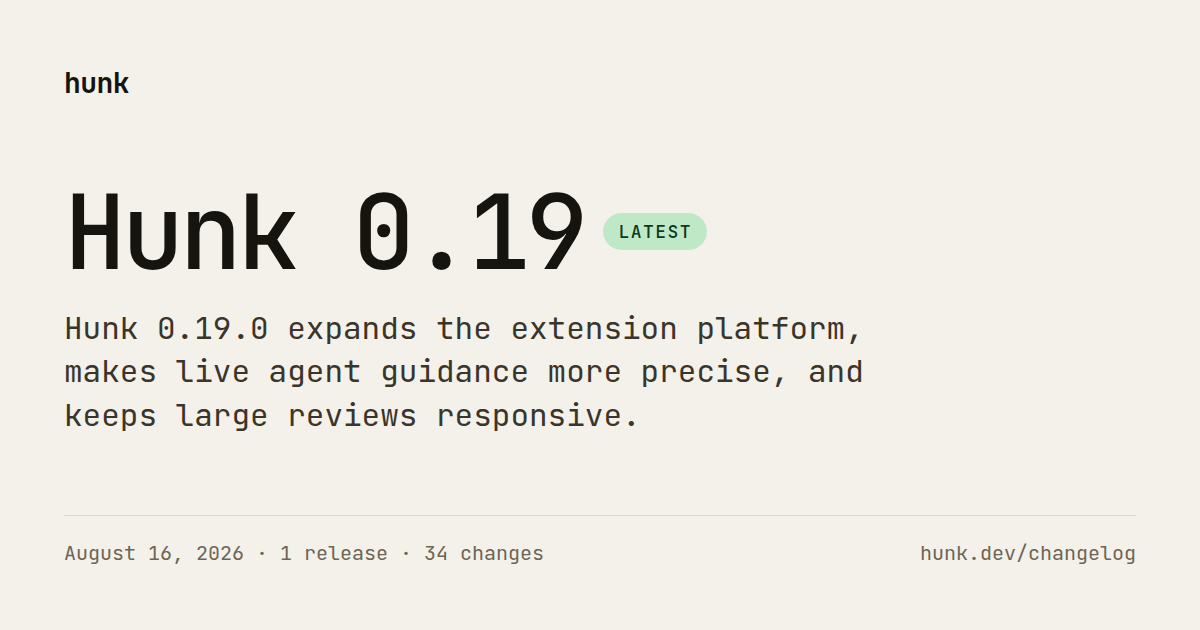
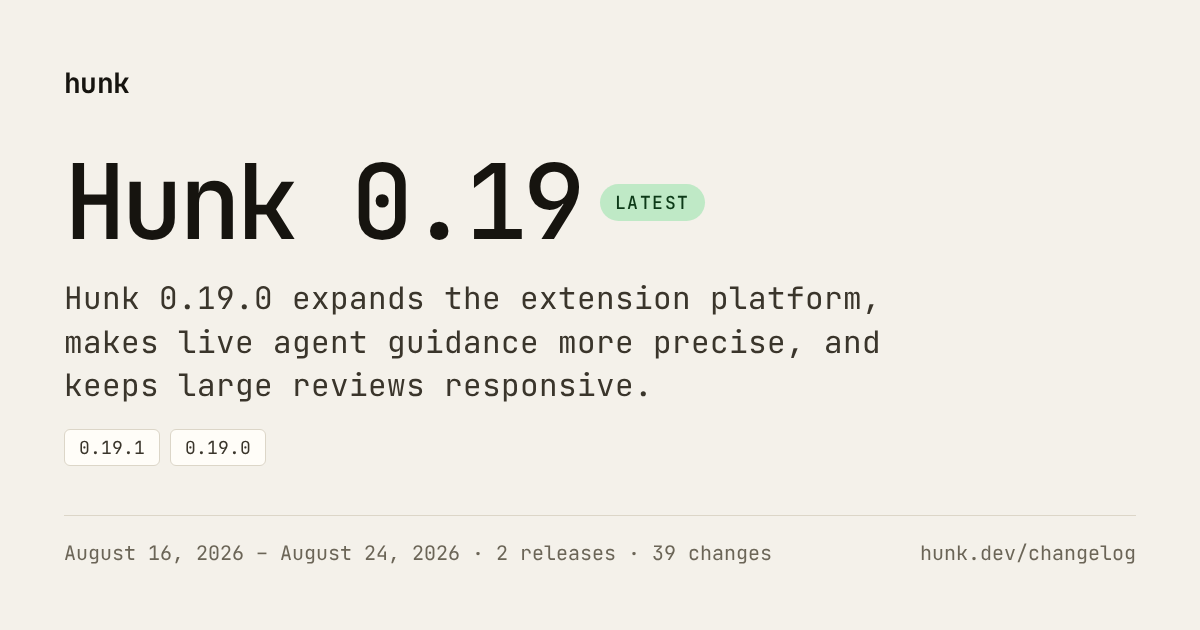
chore(release): publish 0.19.1 changelog

diff --git a/website/src/content/docs/changelog/0.19.md b/website/src/content/docs/changelog/0.19.md
@@ -11,7 +11,7 @@ head:
   - tag: meta
     attrs:
       property: og:image:alt
-      content: "Hunk 0.19 release notes — August 16, 2026 · 1 release · 34 changes"
+      content: "Hunk 0.19 release notes — August 16, 2026 – August 24, 2026 · 2 releases · 39 changes"
   - tag: meta
     attrs:
       name: twitter:image
@@ -20,12 +20,12 @@ head:
 
 <!-- GENERATED by `bun run generate:changelog`. Edit CHANGELOG.md or website/releases/notes.json instead. -->
 
-August 16, 2026 · 1 release
+August 16, 2026 – August 24, 2026 · 2 releases
 
 Hunk 0.19.0 expands the extension platform, makes live agent guidance more precise, and keeps large reviews responsive.
 
 ```sh
-npm i -g hunkdiff@0.19.0
+npm i -g hunkdiff@0.19.1
 brew update && brew upgrade hunk
 ```
 
@@ -46,6 +46,20 @@ This is the current release. See [all install options](/docs/start/install/).
 - [Layout and display](/docs/configure/layout-and-display/)
 
 ## Releases in this series
+
+<a class="release-separator" id="v0-19-1"></a>
+
+### 0.19.1
+
+August 24, 2026
+
+#### Patch Changes
+
+- Stop installing Pierre dependencies for CLI-only npm users.
+- Restore executable permissions for platform binaries installed through npm.
+- Accelerate complex Unicode text width measurement in reviews.
+- Git's `color.moved` highlights are no longer lost when `wrap_lines` is on.
+- Build the x64 binaries for CPUs without AVX2, so Hunk no longer dies with an illegal instruction on pre-Haswell machines and conservative VM CPU models.
 
 <a class="release-separator" id="v0-19-0"></a>
 

diff --git a/website/src/content/docs/changelog/index.md b/website/src/content/docs/changelog/index.md
@@ -24,7 +24,7 @@ head:
 
 ## [Hunk 0.19](/changelog/0.19/)
 
-Latest · August 16, 2026 · 1 release · 34 changes
+Latest · August 16, 2026 – August 24, 2026 · 2 releases · 39 changes
 
 Hunk 0.19.0 expands the extension platform, makes live agent guidance more precise, and keeps large reviews responsive.
 
